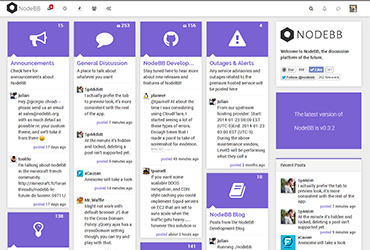
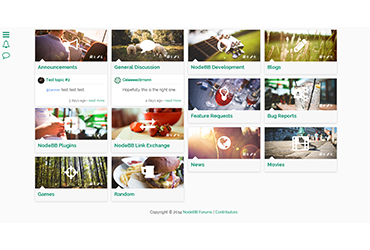
Initial Commit

diff --git a/static/lib/tron.js b/static/lib/tron.js
@@ -1,0 +1,137 @@
+$('document').ready(function() {
+	requirejs([
+		'tron/masonry',
+		'tron/imagesLoaded',
+	], function(Masonry, imagesLoaded) {
+		var fixed = localStorage.getItem('fixed') || 0,
+			masonry;
+
+		function doMasonry() {
+			if($('.home').length) {
+				masonry = new Masonry('.row.home > div', {
+					itemSelector: '.category-item',
+					columnWidth: '.category-item',
+					transitionDuration: 0,
+					isInitLayout: false
+				});
+
+				$('.row.home > div p img').imagesLoaded(function() {
+					masonry.layout();
+				});
+
+				var saved = JSON.parse(localStorage.getItem('masonry:layout'));
+				if (saved) {
+					for (var cid in saved) {
+						if (saved.hasOwnProperty(cid)) {
+							var category = saved[cid];
+
+							$('.category-item[data-cid="' + cid + '"]').css({
+								left: category.left,
+								top: category.top,
+								position: 'absolute'
+							});
+						}
+					}
+				}
+
+				masonry.on('layoutComplete', function() {
+					var saved = {};
+
+					$('.category-item').each(function() {
+						var $this = $(this);
+
+						saved[$this.attr('data-cid')] = {
+							left: $this.css('left'),
+							top: $this.css('top'),
+						};
+					});
+
+					localStorage.setItem('masonry:layout', JSON.stringify(saved));
+				});
+			}
+		}
+
+		function resize(fixed) {
+			fixed = parseInt(fixed, 10);
+
+			var container = fixed ? $('.container-fluid') : $('.container');
+			container.toggleClass('container-fluid', fixed !== 1).toggleClass('container', fixed === 1);
+			localStorage.setItem('fixed', fixed);
+			doMasonry();
+		}
+
+		$(window).on('action:ajaxify.end', function(ev, data) {
+			var url = data.url;
+
+			if(!/Android|webOS|iPhone|iPad|iPod|BlackBerry|IEMobile|Opera Mini/i.test(navigator.userAgent)) {
+				if (url === "") {
+					doMasonry();
+					$('.category-header .badge i').tooltip();
+				}
+
+				resize(fixed);
+			}
+		});
+
+		$(window).on('action:widgets.loaded', function(ev, data) {
+			var url = data.url;
+			
+			if(!/Android|webOS|iPhone|iPad|iPod|BlackBerry|IEMobile|Opera Mini/i.test(navigator.userAgent)) {
+				if (url === "") {
+					doMasonry();
+				}
+			}
+		});
+
+
+		var div = $('<div class="overlay-container"><div class="panel resizer pointer"><div class="panel-body"><i class="fa fa-arrows-h fa-2x"></i></div></div></div>');
+		div.css({
+			position:'fixed',
+			bottom: '20px',
+			right: '20px'
+		}).hide().appendTo(document.body);
+
+		$(window).on('mousemove', function(ev) {
+			if (ev.clientX > $(window).width() - 150 && ev.clientY > $(window).height() - 150) {
+				div.fadeIn();
+			} else {
+				div.stop(true, true).fadeOut();
+			}
+		});
+
+		div.find('.resizer').on('click', function() {
+			fixed = parseInt(fixed, 10) === 1 ? 0 : 1;
+			resize(fixed);
+		});
+	});
+
+	(function() {
+		// loading animation
+		var ajaxifyGo = ajaxify.go,
+			loadData = ajaxify.loadData,
+			refreshTitle = app.refreshTitle,
+			loadingBar = $('.loading-bar');
+
+		ajaxify.go = function(url, callback, quiet) {
+			loadingBar.fadeIn(0).removeClass('reset')
+			return ajaxifyGo(url, callback, quiet);
+		};
+
+		$(window).on('action:ajaxify.loadingTemplates', function() {
+			loadingBar.css('width', '90%');
+		});
+
+		app.refreshTitle = function(url) {
+			loadingBar.css('width', '100%');
+			setTimeout(function() {
+				loadingBar.fadeOut(250);
+
+				setTimeout(function() {
+					loadingBar.addClass('reset').css('width', '0%');
+				}, 250);
+			}, 750);
+
+			return refreshTitle(url);
+		};
+	}());
+});

diff --git a/less/custom.less b/less/custom.less
@@ -144,6 +144,9 @@ body {
 
 /* Admin Nav */
 
+.admin-navbar-brand {
+}
+
 .admin-nav {
   margin-bottom: 0;
   padding-left: 0; // Override default ul/ol

diff --git a/README.md b/README.md
@@ -1,0 +1,25 @@
+Tron Theme for NodeBB
+=========================
+
+A clean theme for NodeBB.
+
+
+## Screenshots
+
+**Home View**
+
+[![Home View](https://i.imgur.com/rOo0jJ8.png)](https://i.imgur.com/rOo0jJ8.png)
+
+**Menu View**
+
+[![Menu View](https://i.imgur.com/LsHcfW5.png)](https://i.imgur.com/LsHcfW5.png)
+
+
+## Installation
+
+    npm install nodebb-theme-tron
+
+
+## Credits
+
+variables.less modified from "White Plum" by [divshot](https://github.com/divshot/)
